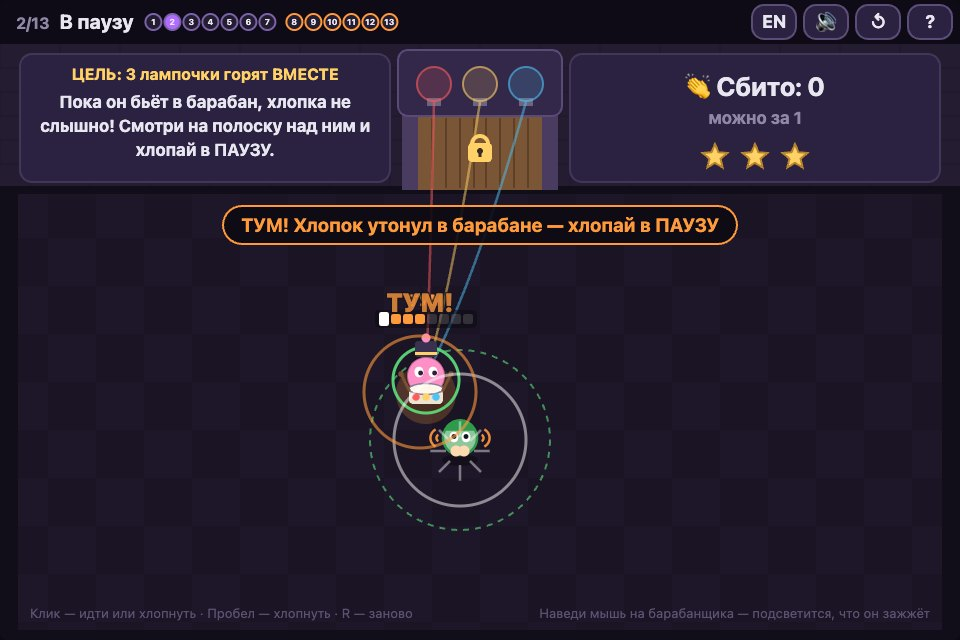
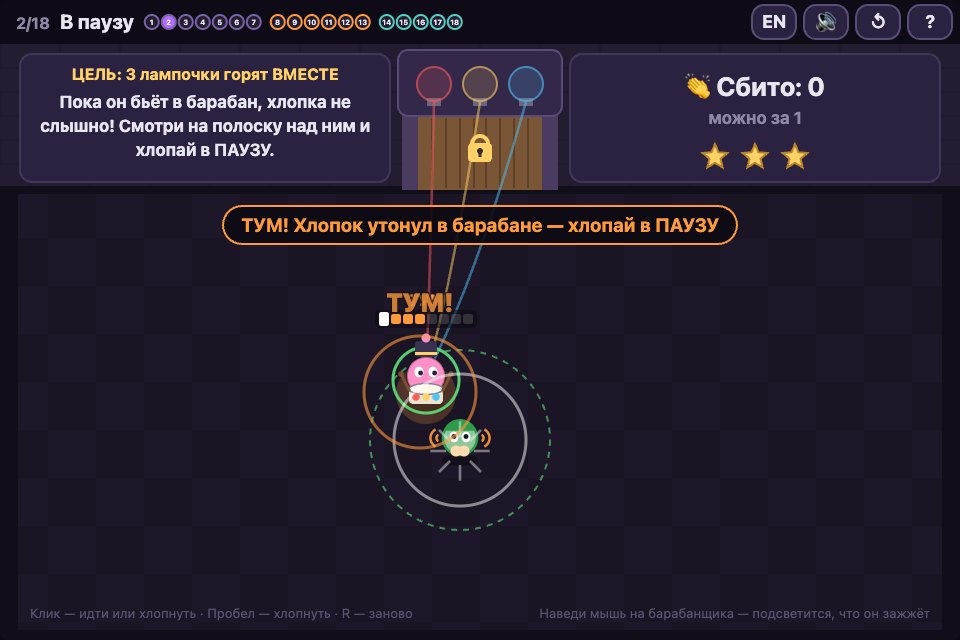
«Лейтмотив»: визреференс v2.2 (кадры «тишина» и «две группы») + дашборд

Changed region(s): [[0.0625, 0.0, 0.5, 0.0625]]

diff --git a/mechanics/leitmotif/reference.html b/mechanics/leitmotif/reference.html
@@ -3,8 +3,8 @@
 <head>
 <meta charset="utf-8">
 <meta name="viewport" content="width=device-width, initial-scale=1">
-<title>Лейтмотив — визуальный референс v2.1</title>
-<meta name="description" content="Десять кадров: хлопни в паузу песенки, искра бежит по ниточкам, три лампочки вместе открывают дверь; головоломки части 2.">
+<title>Лейтмотив — визуальный референс v2.2</title>
+<meta name="description" content="Двенадцать кадров: хлопни в паузу песенки, искра бежит по ниточкам, три лампочки вместе открывают дверь; головоломки части 2.">
 <style>
 :root{color-scheme:dark;--bg:#17131f;--card:#211a2e;--ink:#e8e6f0;--muted:#a79fba;--accent:#b26bff;--line:#352b47;
       --red:#ff5d5d;--yellow:#ffd166;--blue:#4fc3f7;--hero:#5ee07a}
@@ -41,7 +41,7 @@ a{color:var(--accent)}
 <body>
 <main>
 <header>
-  <p class="eyebrow">idea_generator · перебить × лейтмотив · визреференс v2.1</p>
+  <p class="eyebrow">idea_generator · перебить × лейтмотив · визреференс v2.2</p>
   <h1>Лейтмотив</h1>
   <p class="lead">У каждого барабанщика своя песенка. Хлопни рядом с ним <b>в паузу</b> — он собьётся, и сбой побежит по его
     ниточкам к лампочкам и к другим барабанщикам. Хлопок в удар тонет в шуме. Три лампочки должны погореть <b>вместе</b> —
@@ -86,12 +86,18 @@ a{color:var(--accent)}
   <figure><img src="frames/10_stars.jpg" alt="Экран «Ура! Уровень пройден» с тремя звёздами за первую попытку" loading="lazy">
     <figcaption><strong><span class="n">10</span>Звёзды</strong>
     <span>Часть 1 — за число сбитых против минимума, часть 2 — за попытки: с первой — три звезды.</span></figcaption></figure>
+  <figure><img src="frames/11_silence.jpg" alt="Дирижёр сбит: вокруг него кольцо-таймер, у барабанщика надпись тишина" loading="lazy">
+    <figcaption><strong><span class="n">11</span>Дирижёр: тишина</strong>
+    <span>У этого барабанщика сплошная дробь — паузы нет. Сбей дирижёра: оркестр молчит 4 секунды (кольцо вокруг дирижёра), полоски стали зелёными — хлопай кого хочешь.</span></figcaption></figure>
+  <figure><img src="frames/12_sections.jpg" alt="Две группы с лентами разных цветов, подсветка группы при наведении на дирижёра" loading="lazy">
+    <figcaption><strong><span class="n">12</span>Две группы</strong>
+    <span>Цвет ленты на шляпе — чья это группа. Дирижёр усмиряет только своих: наведи на него — пунктиром подсветятся те, кто замолчит.</span></figcaption></figure>
 </section>
 
 <h2>Что есть что</h2>
 <div class="legend">
   <div class="item"><svg width="40" height="40" viewBox="-20 -24 40 48" aria-hidden="true"><circle cx="0" cy="-4" r="15" fill="#ff8fc7"/><rect x="-9" y="-26" width="18" height="12" rx="3" fill="#3a3050"/><rect x="-13" y="7" width="26" height="12" rx="4" fill="#ece4d0"/><circle cx="-5" cy="13" r="3" fill="#ff5d5d"/><circle cx="5" cy="13" r="3" fill="#ffd166"/></svg>
-    Барабанщик. Ходит туда-сюда, над головой — полоска песенки. Точки на барабане — что он зажигает сам, крестики — что гасит.</div>
+    Барабанщик. Ходит туда-сюда, над головой — полоска песенки (сплошь оранжевая — дробь без пауз). Точки на барабане — что он зажигает сам, крестики — что гасит.</div>
   <div class="item"><svg width="40" height="40" viewBox="-20 -20 40 40" aria-hidden="true"><circle r="15" fill="#5ee07a" stroke="#2f9a4b" stroke-width="3"/><circle r="19" fill="none" stroke="#5ee07a" stroke-dasharray="4 4" opacity=".6"/></svg>
     Ты. Пунктир — докуда достаёшь хлопком.</div>
   <div class="item"><svg width="40" height="40" viewBox="0 0 40 40" aria-hidden="true"><path d="M4 34 Q20 40 36 6" stroke="#ff5d5d" stroke-width="3" fill="none"/></svg>
@@ -102,9 +108,11 @@ a{color:var(--accent)}
     Лампочка горит 5 секунд, кольцо — таймер. Перед тем как погаснуть, мигает. Пунктир с крестиком её гасит.</div>
   <div class="item"><svg width="40" height="40" viewBox="0 0 40 40" aria-hidden="true"><rect x="5" y="5" width="30" height="30" fill="none" stroke="#8a7f9e" stroke-width="3"/><circle cx="5" cy="5" r="3" fill="#b2a9c1"/><circle cx="35" cy="5" r="3" fill="#b2a9c1"/><circle cx="5" cy="35" r="3" fill="#b2a9c1"/><circle cx="35" cy="35" r="3" fill="#b2a9c1"/></svg>
     Клетка: подойти нельзя, достать только искрой по ниточке.</div>
+  <div class="item"><svg width="40" height="40" viewBox="-20 -24 40 48" aria-hidden="true"><path d="M-13 -4 13 -4 16 18 -16 18Z" fill="#1d1828"/><path d="M-11 -2 11 16" stroke="#b8e986" stroke-width="5"/><circle cy="-14" r="9" fill="#f2d2b6"/><path d="M12 0 26 -16" stroke="#f2efe8" stroke-width="2.5"/></svg>
+    Дирижёр. Сбей его — его группа молчит 4 секунды; лента показывает, чья группа.</div>
 </div>
 
-<h2>Тринадцать уровней — по одной новой штуке</h2>
+<h2>Восемнадцать уровней — по одной новой штуке</h2>
 <ol class="levels">
   <li><b>Хлопни!</b> <em>— клик → хлопок → лампочки → дверь (правило паузы выключено).</em></li>
   <li><b>В паузу</b> <em>— в удар хлопок тонет; подсказка «СЕЙЧАС!».</em></li>
@@ -119,11 +127,16 @@ a{color:var(--accent)}
   <li><b>Камень-ножницы</b> <em>— три хлопка, единственный порядок.</em></li>
   <li><b>Ловушка</b> <em>— «зажигает все три», но домино гасит жёлтую.</em></li>
   <li><b>Экзамен</b> <em>— всё вместе, единственный порядок из трёх.</em></li>
+  <li><b>Дирижёр</b> <em>— часть 3: дробь без пауз, ключ — тишина дирижёра.</em></li>
+  <li><b>Четыре секунды</b> <em>— маршрут за время тишины.</em></li>
+  <li><b>Дирижёр в клетке</b> <em>— тишину включает домино.</em></li>
+  <li><b>Две группы</b> <em>— лимита хватает на один оркестр: какой?</em></li>
+  <li><b>Оркестр</b> <em>— экзамен третьей части.</em></li>
 </ol>
 
 <p class="note">Кадры сняты из самого прототипа (<a href="../../prototypes/leitmotif/index.html">играть</a>), спека —
   <a href="spec.md">spec.md</a>. v2 заменила непонятную v1; v2.1 вернула ядро «перебить не в такт» одним правилом — хлопок в удар
-  тонет — и добавила головоломки части 2.</p>
+  тонет — и добавила головоломки части 2; v2.2 — часть 3 «Оркестр» с дирижёром.</p>
 </main>
 </body>
 </html>
